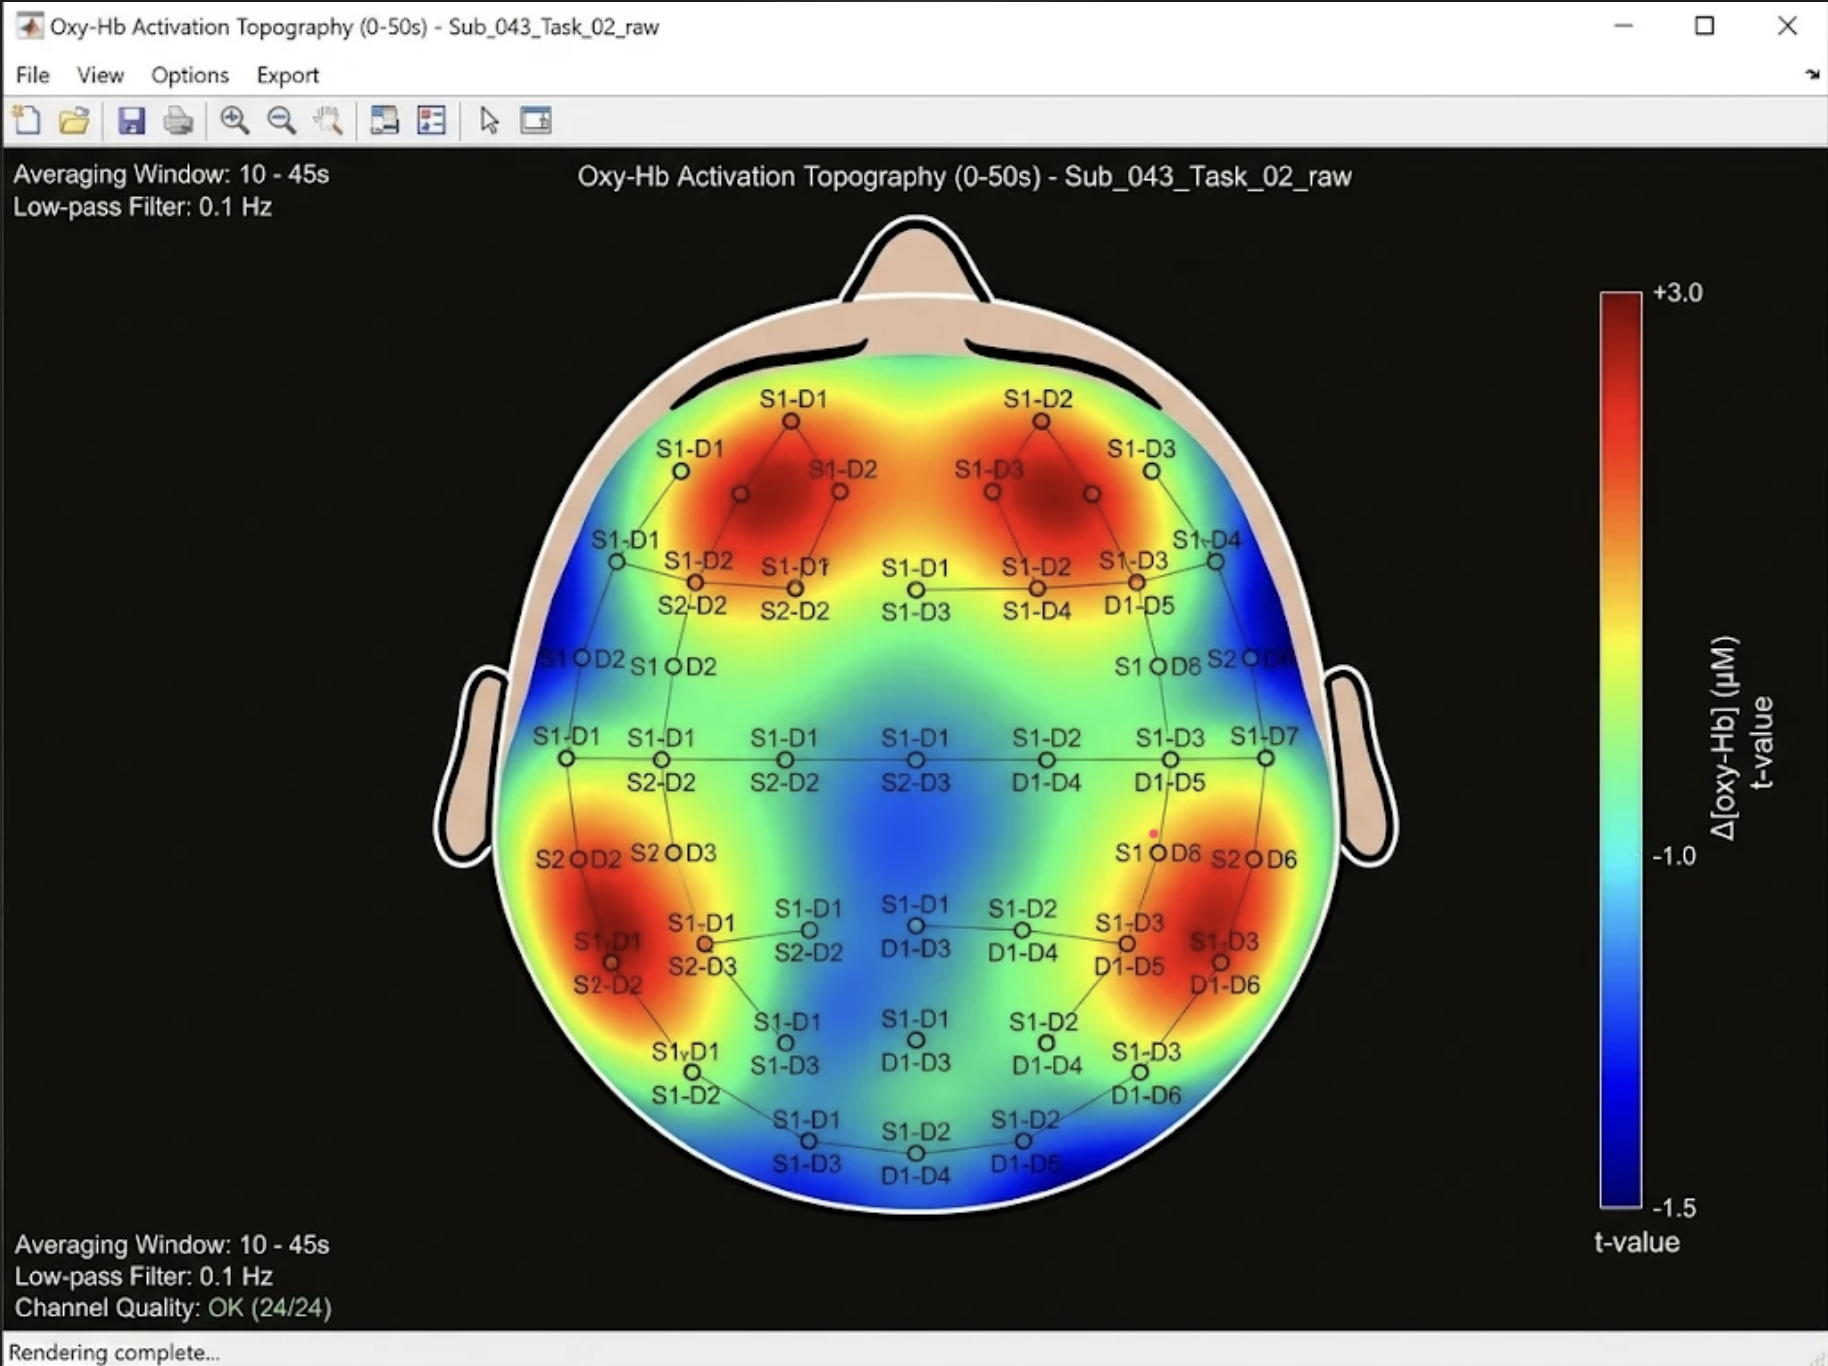
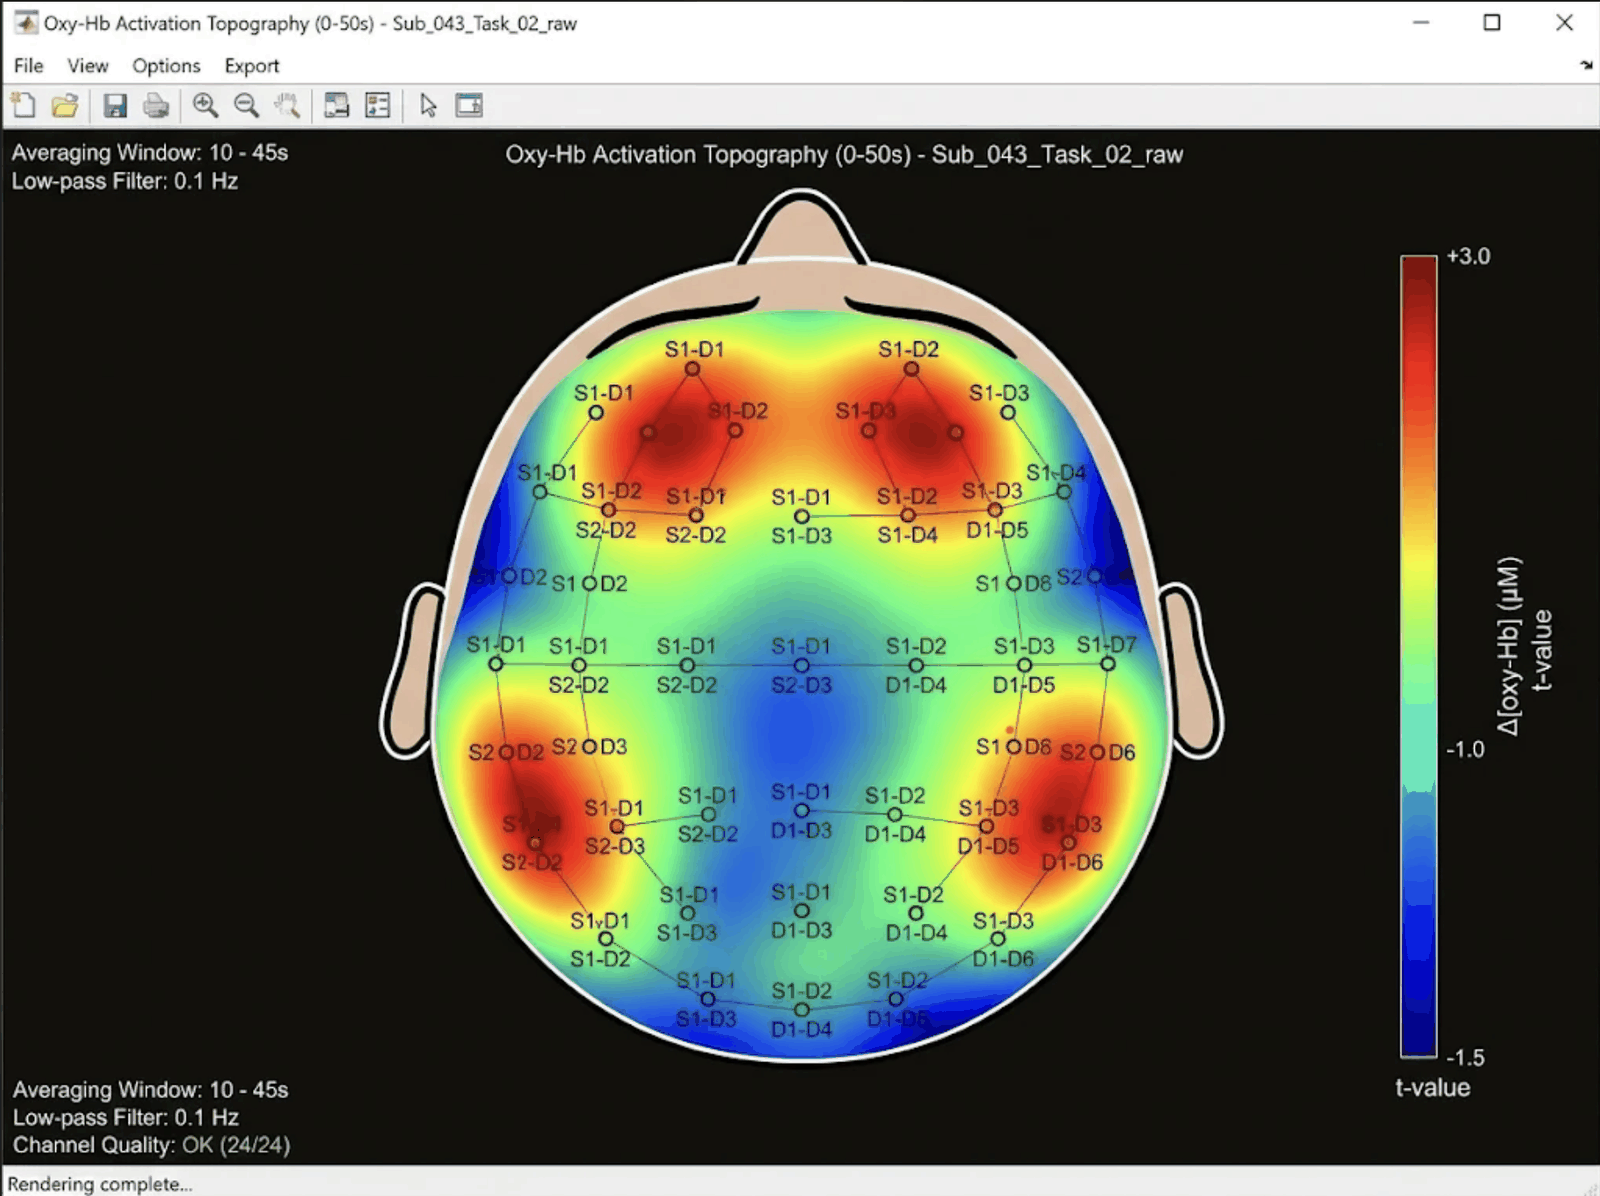
fNIRS post: add illustrations and output section, compress images
Claude-Session: https://claude.ai/code/session_01LFyijS9GtuNuSapDauB2kQ

diff --git a/hsl-site/content/blog/2026-11-07-fnirs.tr.md b/hsl-site/content/blog/2026-11-07-fnirs.tr.md
@@ -8,7 +8,13 @@ author: Hesaplamalı Sinirbilim Laboratuvarı
 ---
 Karanlık bir odada el fenerini parmağınızın ucuna bastırın. Parmağınız kırmızı kırmızı parlar. Işığın bir kısmı deriden, kemikten ve kandan geçip öbür taraftan çıkar. Hastanelerde parmağa takılan nabız oksimetresi de bu basit gözleme dayanır: kandaki oksijeni, içinden geçen ışığa bakarak ölçer.
 
+![Işık tutulan elin içinden kırmızı parıldaması](fnirs_flashlight.jpg "Işık deriyi, kemiği ve kanı geçip öbür taraftan çıkar.")
+
+## fNIRS bunu nasıl yapıyor?
+
 fNIRS (fonksiyonel yakın kızılötesi spektroskopi) aynı fikri kafaya uygular. Kafa derisine küçük ışık kaynakları ve onların birkaç santim yanına ışık dedektörleri yerleştiririz. Kaynaktan çıkan ışık doku içinde saçılır, bir kısmı beynin yüzeyine kadar inip geri döner ve dedektöre ulaşır. Dönen ışığın ne kadar azaldığına bakarak, o bölgedeki kanda neler olduğunu anlarız.
+
+![Kafa derisindeki ışık kaynağından çıkan ışığın dokuda saçılması ve kavisli bir yolla dedektöre dönmesi](fnirs_workprinciple.jpg "Solda: kaynaktan çıkan ışık dokuda saçılır. Sağda: ışığın bir kısmı kavisli bir yol izleyip dedektöre (mavi) geri döner.")
 
 ## Neden yakın kızılötesi?
 
@@ -25,6 +31,14 @@ Sonuç olarak aktif bölgede oksijenli hemoglobin artar, oksijensiz hemoglobin a
 ## Muz şeklinde bir yol
 
 Işık kaynaktan dedektöre düz bir çizgiyle gitmez. Dokuda saçılarak, muz şeklinde kavisli bir yol izler. Kaynakla dedektör arasındaki mesafe arttıkça bu muz daha derine iner ama dönen ışık da azalır. Pratikte yetişkinlerde yaklaşık 3 santimlik bir mesafeyle beynin dış yüzeyine, yani korteksin üst birkaç milimetresine ulaşırız. Daha derindeki yapılar fNIRS'in menzili dışındadır.
+
+## Çıktı nasıl görünür?
+
+Her kaynak–dedektör çifti bir **kanal** oluşturur. Şekildeki S1-D1 gibi etiketler, hangi kaynakla hangi dedektörün eşleştiğini gösterir. Her kanal bize zaman içinde değişen iki eğri verir: oksijenli ve oksijensiz hemoglobindeki değişim.
+
+Bu eğrileri görev sırasındaki belli bir zaman aralığında ortalayıp dinlenme anıyla karşılaştırınca, kafanın üzerinde bir renk haritası elde ederiz. Kırmızı bölgeler, görev sırasında oksijenli hemoglobinin belirgin biçimde arttığı, yani daha çok "kan sipariş eden" bölgelerdir. Mavi bölgelerde artış yoktur ya da azalma vardır.
+
+![Oksijenli hemoglobin değişiminin kafa üzerinde renkli bir haritası](fnirs_result.png "Temsili bir fNIRS çıktısı: görev sırasında oksijenli hemoglobin değişiminin kafa üzerindeki dağılımı.")
 
 ## EEG ile karşılaştırınca
 

diff --git a/hsl-site/content/blog/2026-11-07-fnirs.en.md b/hsl-site/content/blog/2026-11-07-fnirs.en.md
@@ -8,7 +8,13 @@ author: Computational Neuroscience Lab
 ---
 In a dark room, press a flashlight against your fingertip. Your finger glows red. Some of the light makes it through skin, bone and blood and comes out the other side. The pulse oximeter clipped onto patients' fingers in hospitals relies on this simple observation: it measures oxygen in the blood by looking at the light that passes through.
 
+![A hand glowing red as light shines through it](fnirs_flashlight.jpg "Light passes through skin, bone and blood and comes out the other side.")
+
+## How does fNIRS do it?
+
 fNIRS (functional near-infrared spectroscopy) applies the same idea to the head. We place small light sources on the scalp, with light detectors a few centimetres away. Light from the source scatters through the tissue, some of it reaches the surface of the brain, turns back and arrives at the detector. By looking at how much of the light was lost on the way, we learn what is happening in the blood of that region.
+
+![Light from a source on the scalp scattering through tissue and returning along a curved path to a detector](fnirs_workprinciple.jpg "Left: light from the source scatters through the tissue. Right: part of it follows a curved path back to the detector (blue).")
 
 ## Why near-infrared?
 
@@ -25,6 +31,14 @@ As a result, oxygenated haemoglobin rises and deoxygenated haemoglobin falls in 
 ## A banana-shaped path
 
 Light doesn't travel from source to detector in a straight line. It scatters through the tissue along a curved, banana-shaped path. The farther apart the source and detector, the deeper the banana goes, but the less light comes back. In practice, a distance of about 3 centimetres in adults reaches the outer surface of the brain, the top few millimetres of the cortex. Deeper structures are out of fNIRS's reach.
+
+## What does the output look like?
+
+Each source–detector pair forms a **channel**. Labels like S1-D1 in the figure show which source is paired with which detector. Each channel gives us two curves over time: the change in oxygenated and in deoxygenated haemoglobin.
+
+If we average these curves over a time window during the task and compare them with rest, we get a colour map over the head. Red areas are where oxygenated haemoglobin rose clearly during the task, the regions "ordering" more blood. Blue areas show no rise, or a drop.
+
+![A colour map of oxygenated haemoglobin change over the head](fnirs_result.png "An illustrative fNIRS output: the distribution of oxygenated haemoglobin change over the head during a task.")
 
 ## Compared with EEG
 
